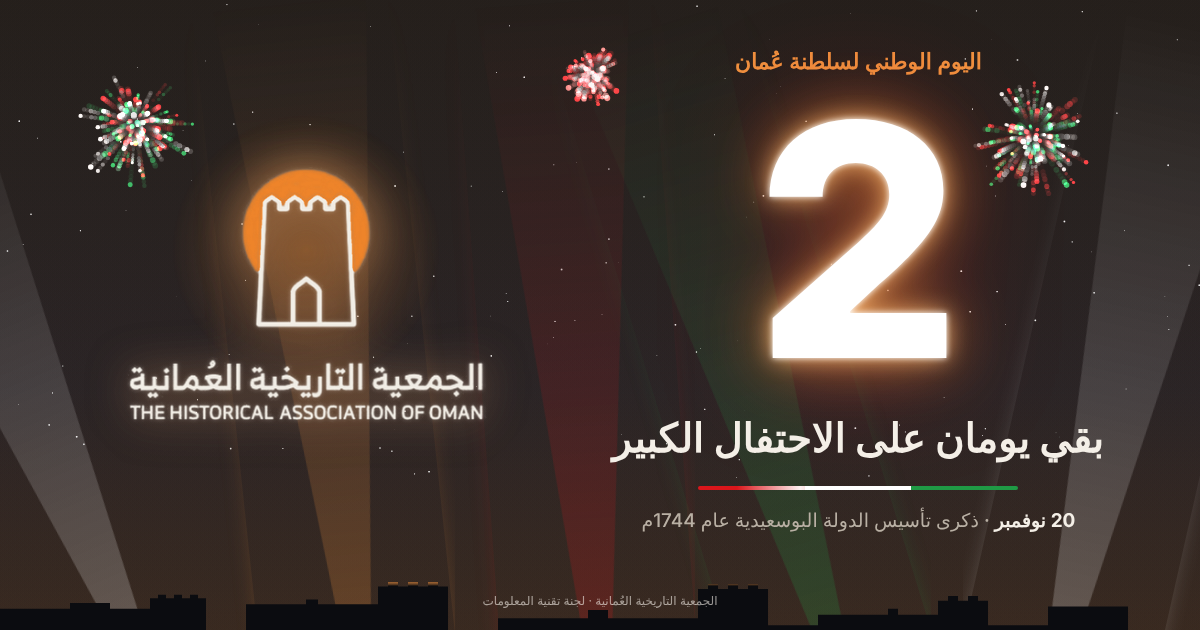
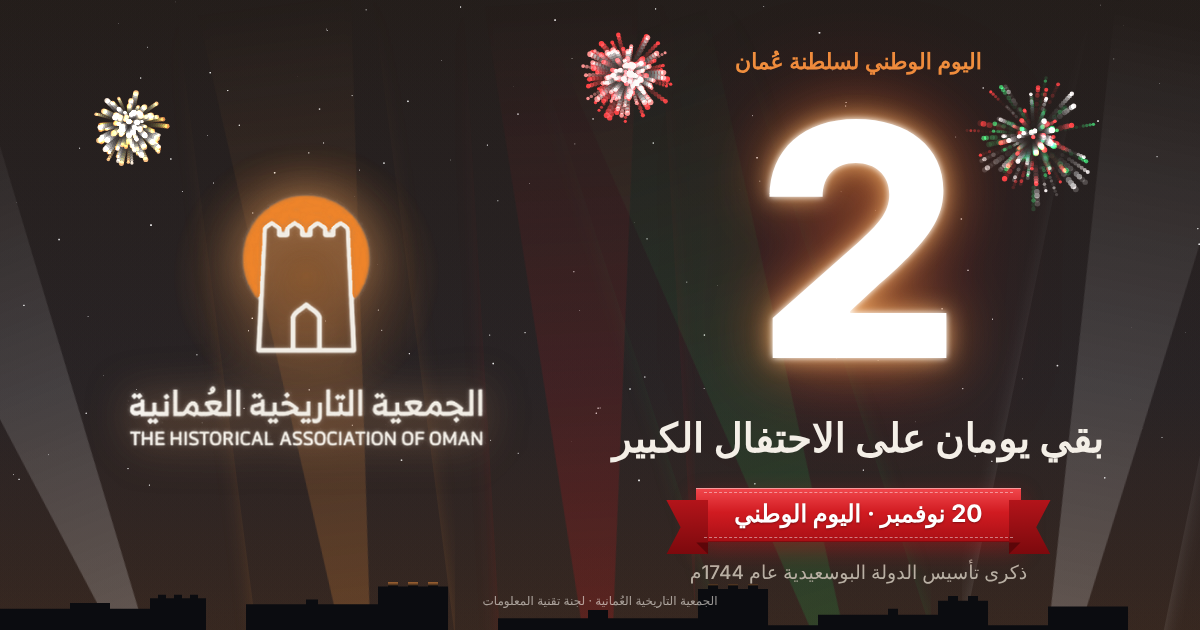
العرض الضوئي: شريط أحمر بدل الخط الملون
Claude-Session: https://claude.ai/code/session_01KowdSxoaYx9is8iv5ALpqe

diff --git a/docs/national-day.html b/docs/national-day.html
@@ -76,11 +76,25 @@ html,body{margin:0;height:100%;background:var(--night);color:var(--ink);font-fam
 @keyframes glow{0%,100%{text-shadow:0 0 6px #fff,0 0 22px rgba(255,190,120,.9),0 0 60px rgba(240,145,63,.75),0 0 120px rgba(219,22,27,.45)}
   50%{text-shadow:0 0 4px #fff,0 0 14px rgba(255,190,120,.7),0 0 40px rgba(240,145,63,.55),0 0 80px rgba(31,154,69,.35)}}
 .line{margin:6px 0 0;font-weight:700;font-size:clamp(22px,3.6vw,40px);line-height:1.5}
-.flag{display:block;height:4px;width:min(320px,70%);margin:18px auto 14px;border-radius:4px;position:relative;overflow:hidden;
-  background:linear-gradient(90deg,var(--red) 0 33.3%,var(--white) 33.3% 66.6%,var(--green) 66.6%)}
-.flag::after{content:"";position:absolute;inset:0;background:linear-gradient(90deg,transparent,rgba(255,255,255,.95),transparent);
-  width:40%;transform:translateX(-120%);animation:run 2.8s ease-in-out 2s infinite}
-@keyframes run{to{transform:translateX(320%)}}
+.ribbon{position:relative;display:inline-block;isolation:isolate;margin:20px 0 14px;padding:7px 38px 9px;color:#fff;
+  font-weight:700;font-size:clamp(17px,2.3vw,24px);line-height:1.6;white-space:nowrap;
+  background:linear-gradient(180deg,#f2484d 0%,#d11b21 45%,#a80f15 100%);
+  box-shadow:0 8px 22px rgba(219,22,27,.38),inset 0 1px 0 rgba(255,255,255,.45),inset 0 -1px 0 rgba(0,0,0,.25);
+  text-shadow:0 1px 2px rgba(0,0,0,.35)}
+.ribbon::before,.ribbon::after{content:"";position:absolute;top:12px;width:42px;height:100%;z-index:-2;
+  background:linear-gradient(180deg,#b3141a,#7c090d)}
+.ribbon::before{left:-30px;clip-path:polygon(0 0,100% 0,100% 100%,0 100%,34% 50%)}
+.ribbon::after{right:-30px;clip-path:polygon(0 0,100% 0,66% 50%,100% 100%,0 100%)}
+.ribbon .fold{position:absolute;bottom:-12px;width:12px;height:12px;z-index:-1;background:#5c0609}
+.ribbon .fold.l{left:0;clip-path:polygon(0 0,100% 0,100% 100%)}
+.ribbon .fold.r{right:0;clip-path:polygon(0 0,100% 0,0 100%)}
+.ribbon .stitch{position:absolute;inset:4px 8px;border-top:1px dashed rgba(255,255,255,.45);border-bottom:1px dashed rgba(255,255,255,.45);pointer-events:none}
+.ribbon .sheen{position:absolute;inset:0;overflow:hidden;pointer-events:none}
+.ribbon .sheen::after{content:"";position:absolute;top:0;bottom:0;width:35%;left:0;
+  background:linear-gradient(100deg,transparent,rgba(255,255,255,.55),transparent);transform:translateX(-140%);animation:sheen 3.4s ease-in-out 2.4s infinite}
+@keyframes sheen{0%{transform:translateX(-140%)}55%,100%{transform:translateX(330%)}}
+.msg.on .ribbon{animation:unfurl 1s cubic-bezier(.2,.8,.2,1) 1.15s both}
+@keyframes unfurl{from{clip-path:inset(-30px 50% -30px 50%)}to{clip-path:inset(-30px -60px -30px -60px)}}
 .date{margin:0;font-weight:500;font-size:clamp(14px,1.9vw,19px);color:var(--muted);line-height:1.8}
 .date b{color:var(--ink);font-weight:700}
 
@@ -102,14 +116,14 @@ html,body{margin:0;height:100%;background:var(--night);color:var(--ink);font-fam
   .msg{align-self:center;margin-top:-4vh}
 }
 @media (prefers-reduced-motion:reduce){
-  .beam,.logo .shine,.halo,.flag::after,.num{animation:none!important}
+  .beam,.logo .shine,.halo,.ribbon,.ribbon .sheen::after,.num{animation:none!important}
   .logo img{clip-path:none;transition:none}
   .msg>*{transition:none}
 }
 /* still frame for the share image */
 .og .replay,.og .hint{display:none}
 .og .msg>*,.og .foot,.og .beams,.og .logo img{transition:none!important}
-.og .num{animation:none!important}
+.og .num,.og .ribbon{animation:none!important}
 </style>
 </head>
 <body>
@@ -133,8 +147,8 @@ html,body{margin:0;height:100%;background:var(--night);color:var(--ink);font-fam
     <p class="kicker">اليوم الوطني لسلطنة عُمان</p>
     <p class="num" id="num">2</p>
     <p class="line" id="line">بقي يومان على الاحتفال الكبير</p>
-    <span class="flag" aria-hidden="true"></span>
-    <p class="date"><b>20 نوفمبر</b> · ذكرى تأسيس الدولة البوسعيدية عام 1744م</p>
+    <p class="ribbon"><span class="fold l" aria-hidden="true"></span><span class="fold r" aria-hidden="true"></span><span class="stitch" aria-hidden="true"></span>20 نوفمبر · اليوم الوطني<span class="sheen" aria-hidden="true"></span></p>
+    <p class="date">ذكرى تأسيس الدولة البوسعيدية عام 1744م</p>
   </section>
   <figure class="logo" id="logo">
     <span class="halo"></span><span class="ring"></span>

diff --git a/src/national-day.html b/src/national-day.html
@@ -76,11 +76,25 @@ html,body{margin:0;height:100%;background:var(--night);color:var(--ink);font-fam
 @keyframes glow{0%,100%{text-shadow:0 0 6px #fff,0 0 22px rgba(255,190,120,.9),0 0 60px rgba(240,145,63,.75),0 0 120px rgba(219,22,27,.45)}
   50%{text-shadow:0 0 4px #fff,0 0 14px rgba(255,190,120,.7),0 0 40px rgba(240,145,63,.55),0 0 80px rgba(31,154,69,.35)}}
 .line{margin:6px 0 0;font-weight:700;font-size:clamp(22px,3.6vw,40px);line-height:1.5}
-.flag{display:block;height:4px;width:min(320px,70%);margin:18px auto 14px;border-radius:4px;position:relative;overflow:hidden;
-  background:linear-gradient(90deg,var(--red) 0 33.3%,var(--white) 33.3% 66.6%,var(--green) 66.6%)}
-.flag::after{content:"";position:absolute;inset:0;background:linear-gradient(90deg,transparent,rgba(255,255,255,.95),transparent);
-  width:40%;transform:translateX(-120%);animation:run 2.8s ease-in-out 2s infinite}
-@keyframes run{to{transform:translateX(320%)}}
+.ribbon{position:relative;display:inline-block;isolation:isolate;margin:20px 0 14px;padding:7px 38px 9px;color:#fff;
+  font-weight:700;font-size:clamp(17px,2.3vw,24px);line-height:1.6;white-space:nowrap;
+  background:linear-gradient(180deg,#f2484d 0%,#d11b21 45%,#a80f15 100%);
+  box-shadow:0 8px 22px rgba(219,22,27,.38),inset 0 1px 0 rgba(255,255,255,.45),inset 0 -1px 0 rgba(0,0,0,.25);
+  text-shadow:0 1px 2px rgba(0,0,0,.35)}
+.ribbon::before,.ribbon::after{content:"";position:absolute;top:12px;width:42px;height:100%;z-index:-2;
+  background:linear-gradient(180deg,#b3141a,#7c090d)}
+.ribbon::before{left:-30px;clip-path:polygon(0 0,100% 0,100% 100%,0 100%,34% 50%)}
+.ribbon::after{right:-30px;clip-path:polygon(0 0,100% 0,66% 50%,100% 100%,0 100%)}
+.ribbon .fold{position:absolute;bottom:-12px;width:12px;height:12px;z-index:-1;background:#5c0609}
+.ribbon .fold.l{left:0;clip-path:polygon(0 0,100% 0,100% 100%)}
+.ribbon .fold.r{right:0;clip-path:polygon(0 0,100% 0,0 100%)}
+.ribbon .stitch{position:absolute;inset:4px 8px;border-top:1px dashed rgba(255,255,255,.45);border-bottom:1px dashed rgba(255,255,255,.45);pointer-events:none}
+.ribbon .sheen{position:absolute;inset:0;overflow:hidden;pointer-events:none}
+.ribbon .sheen::after{content:"";position:absolute;top:0;bottom:0;width:35%;left:0;
+  background:linear-gradient(100deg,transparent,rgba(255,255,255,.55),transparent);transform:translateX(-140%);animation:sheen 3.4s ease-in-out 2.4s infinite}
+@keyframes sheen{0%{transform:translateX(-140%)}55%,100%{transform:translateX(330%)}}
+.msg.on .ribbon{animation:unfurl 1s cubic-bezier(.2,.8,.2,1) 1.15s both}
+@keyframes unfurl{from{clip-path:inset(-30px 50% -30px 50%)}to{clip-path:inset(-30px -60px -30px -60px)}}
 .date{margin:0;font-weight:500;font-size:clamp(14px,1.9vw,19px);color:var(--muted);line-height:1.8}
 .date b{color:var(--ink);font-weight:700}
 
@@ -102,14 +116,14 @@ html,body{margin:0;height:100%;background:var(--night);color:var(--ink);font-fam
   .msg{align-self:center;margin-top:-4vh}
 }
 @media (prefers-reduced-motion:reduce){
-  .beam,.logo .shine,.halo,.flag::after,.num{animation:none!important}
+  .beam,.logo .shine,.halo,.ribbon,.ribbon .sheen::after,.num{animation:none!important}
   .logo img{clip-path:none;transition:none}
   .msg>*{transition:none}
 }
 /* still frame for the share image */
 .og .replay,.og .hint{display:none}
 .og .msg>*,.og .foot,.og .beams,.og .logo img{transition:none!important}
-.og .num{animation:none!important}
+.og .num,.og .ribbon{animation:none!important}
 </style>
 </head>
 <body>
@@ -133,8 +147,8 @@ html,body{margin:0;height:100%;background:var(--night);color:var(--ink);font-fam
     <p class="kicker">اليوم الوطني لسلطنة عُمان</p>
     <p class="num" id="num">2</p>
     <p class="line" id="line">بقي يومان على الاحتفال الكبير</p>
-    <span class="flag" aria-hidden="true"></span>
-    <p class="date"><b>20 نوفمبر</b> · ذكرى تأسيس الدولة البوسعيدية عام 1744م</p>
+    <p class="ribbon"><span class="fold l" aria-hidden="true"></span><span class="fold r" aria-hidden="true"></span><span class="stitch" aria-hidden="true"></span>20 نوفمبر · اليوم الوطني<span class="sheen" aria-hidden="true"></span></p>
+    <p class="date">ذكرى تأسيس الدولة البوسعيدية عام 1744م</p>
   </section>
   <figure class="logo" id="logo">
     <span class="halo"></span><span class="ring"></span>
